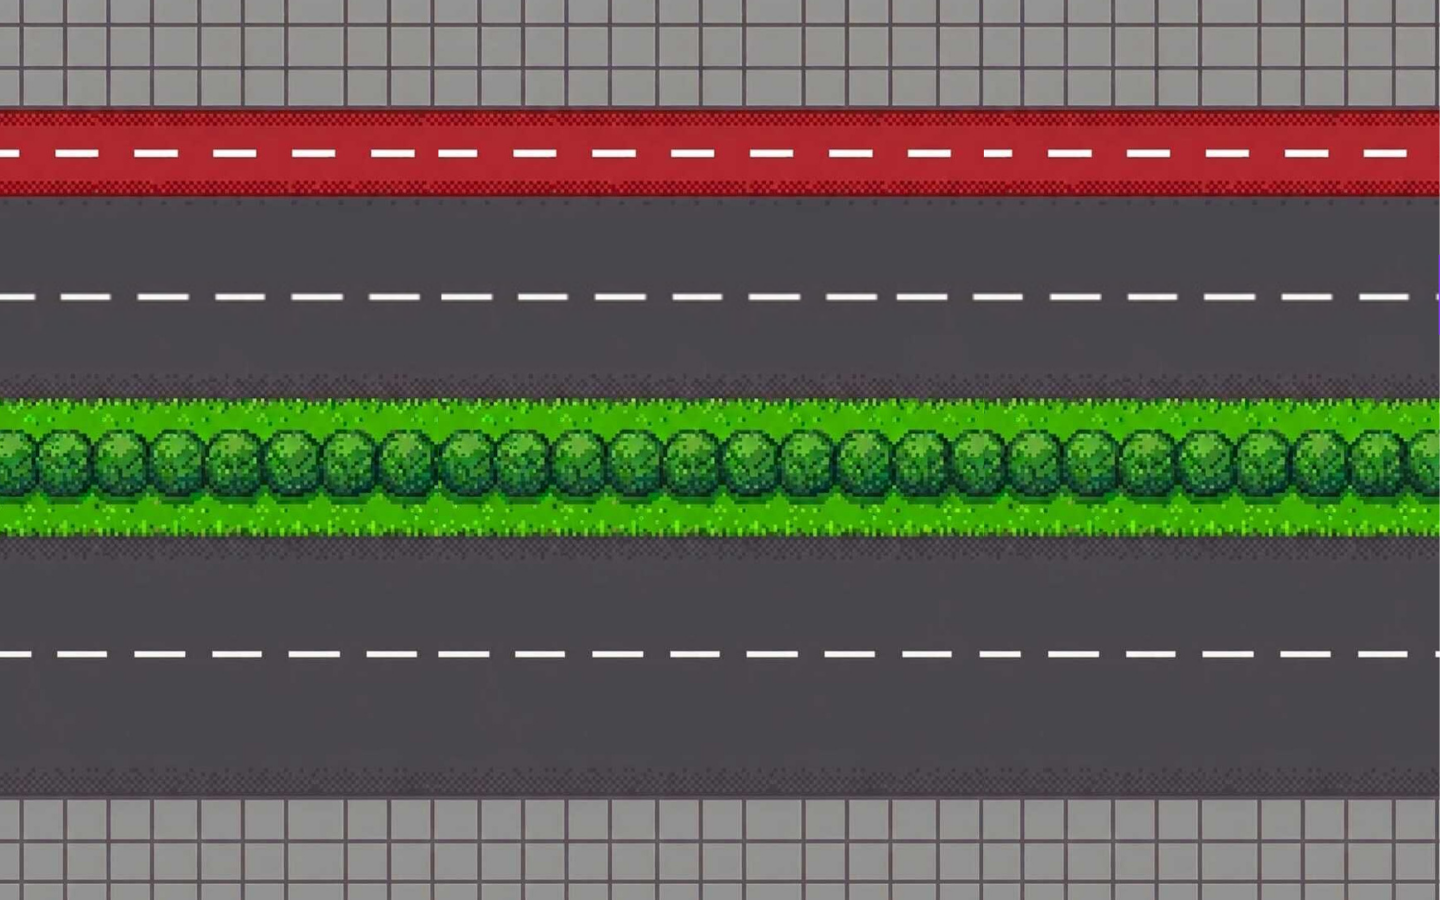
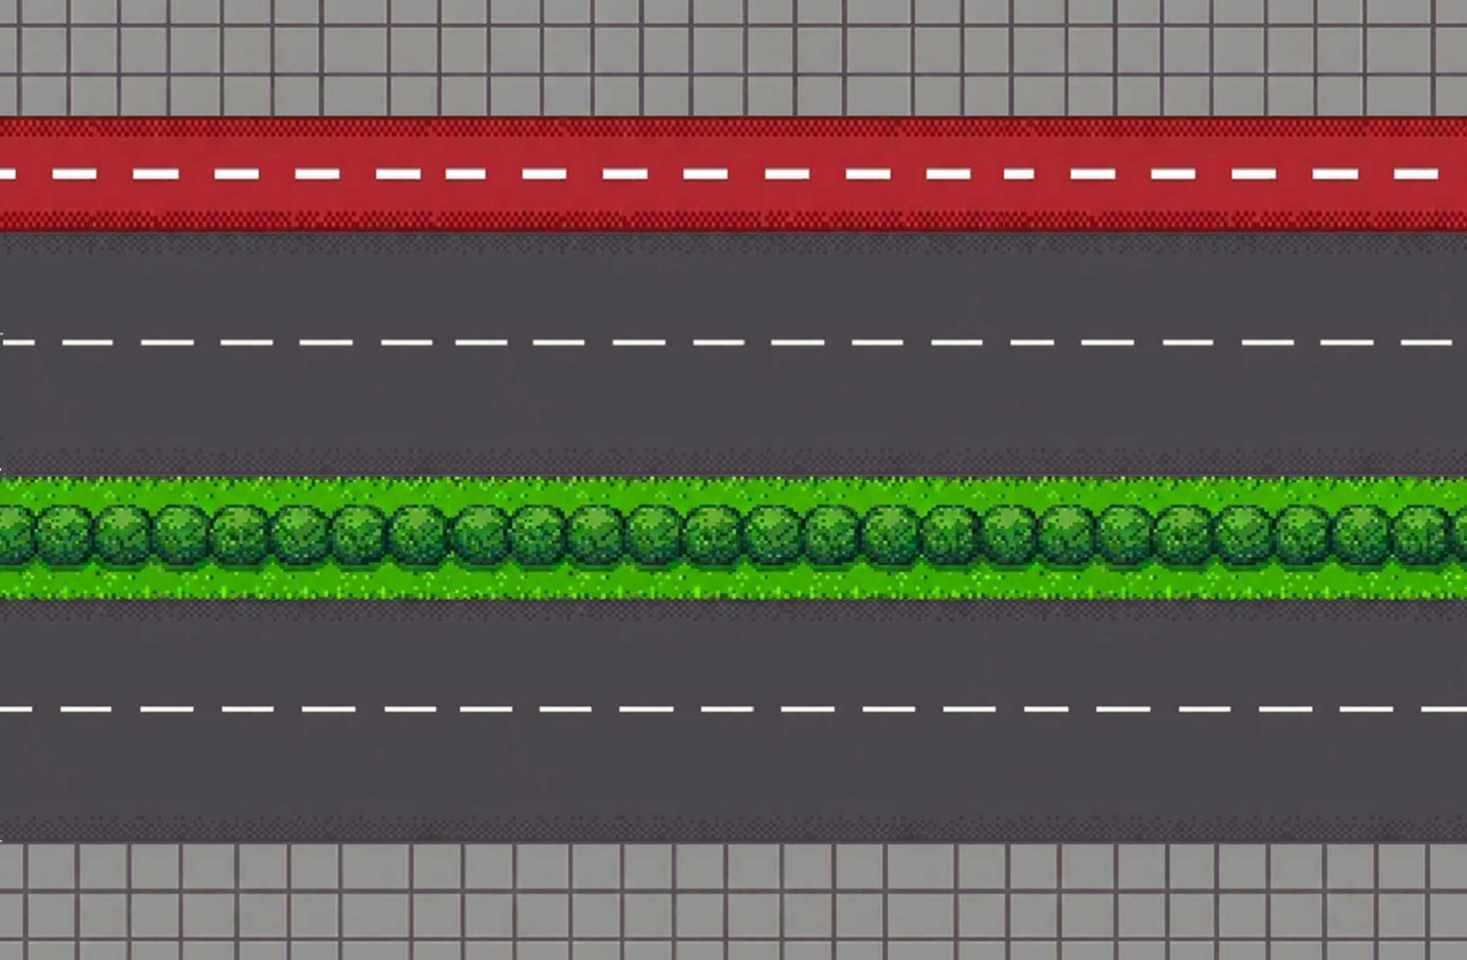
feat: update player sprites

diff --git a/sprites.py b/sprites.py
@@ -38,10 +38,10 @@ background_game = sprite.Sprite("images/backgrounds/fase1.png")
 background_game.set_position(0, 0)
 
 # PLAYER
-player_up = sprite.Sprite("images/player/jogador-up.png", 4)
-player_right = sprite.Sprite("images/player/jogador-right.png", 4)
-player_left = sprite.Sprite("images/player/jogador-left.png", 4)
-player_down = sprite.Sprite("images/player/jogador-down.png", 4)
+player_up = sprite.Sprite("images/player/player-up.png", 4)
+player_right = sprite.Sprite("images/player/player-right.png", 4)
+player_left = sprite.Sprite("images/player/player-left.png", 4)
+player_down = sprite.Sprite("images/player/player-down.png", 4)
 
 player_up.set_total_duration(333)
 player_right.set_total_duration(333)
@@ -58,3 +58,10 @@ player_up.pause()
 player_right.pause()
 player_left.pause()
 player_down.pause()
+
+# Volume icon
+# VOLUME 
+volume_on = sprite.Sprite("images/icon-sound/sound-on.png", 1)
+volume_on.set_position(config.janela.largura - volume_on.width - 10, 10)
+volume_off = sprite.Sprite("images/icon-sound/sound-off.png", 1)
+volume_off.set_position(config.janela.largura - volume_off.width - 10, 10)